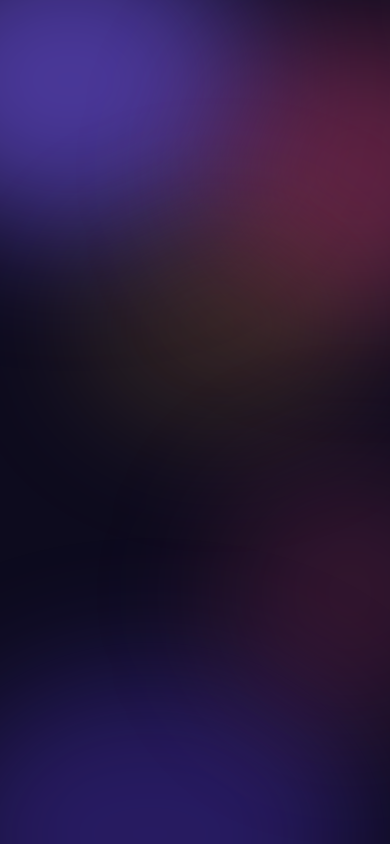
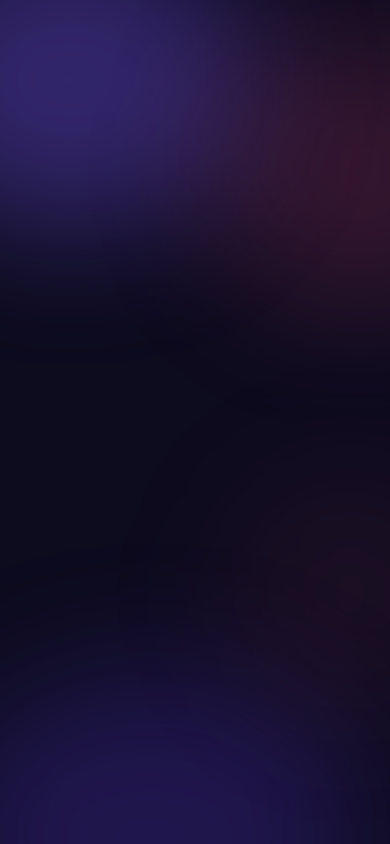
Düzeltmeler 1: koyu zemin, basılı kare, Keşfet ve mekan sayfası, metinler
- Koyu temada bulutlar sakin, turuncu bulut yok (scripts/art/groundDark.ts).
- Simge düğmesine basınca arkada kare dolgu çıkmıyor, düğme hafif içe çöker.
- Keşfet: başlık saate göre (Bu sabah, Bugün, Bu akşam), Şu an buradasın
  ince satır, liste başlığı sığmayınca alt satıra iner, haritada sokak
  adları başlığın içinden görünmez.
- Mekan sayfası: oturulan nokta işaretli, noktalar kartı doldurur, konum
  notu yalnızca check-in öncesinde.
- Metinler: Anonim adın tekrarı, arkadaş satırı tek satır, geçmişte kişi
  ile, Aktiviteler'in ilk sekmesi Etkinlikler.
- Elle eklenmiş ikinci Yedegör Dürüm listeden çıkar (migration).

Claude-Session: https://claude.ai/code/session_01Vo9HtBJCBDF53mt7AVG3wM

diff --git a/apps/mobile/src/i18n/tr.ts b/apps/mobile/src/i18n/tr.ts
@@ -352,8 +352,9 @@ export const tr = {
   activities: {
     // skall tuvali (AktivitelerGecmisKayit): "Sahtekar · bugün 19:30"; approved 27 Ekim.
     sheetLine: (game: string, when: string) => `${game} · ${when}`,
-    tabs: 'Aktiviteler ve geçmiş',
-    events: 'Aktiviteler',
+    tabs: 'Etkinlikler ve geçmiş',
+    // Not the page's own name again (the owner's call, 30 Ekim).
+    events: 'Etkinlikler',
     history: 'Geçmiş',
     fromVenues: (city: string) => `${inflectTr(city, 'locative')}ki mekanlardan`,
     eventKind: 'Etkinlik',
@@ -374,13 +375,14 @@ export const tr = {
           ? (WEEKDAYS_SHORT[new Date(iso).getDay()] ?? '')
           : dayMonth(iso),
     game: (concept: HistoryConcept) => HISTORY_CONCEPTS[concept],
-    withTable: (alias: string) => `${alias} masasıyla`,
+    // A person, not a table (the people's table, docs/SPEC_V4.md §4.E; the owner's report, 30 Ekim).
+    withTable: (alias: string) => `${alias} ile`,
     results: { won: 'Kazandın', lost: 'Kaybettin', done: 'Bitti' } satisfies Record<
       HistoryResult,
       string
     >,
     rowLabel: (game: string, alias: string, when: string, result: string | null) =>
-      [game, `${alias} masasıyla`, when, result].filter(Boolean).join(', '),
+      [game, `${alias} ile`, when, result].filter(Boolean).join(', '),
     tabu: {
       body: 'Masalar takım olur: anlatan masa kartı anlatır, diğer masa yasaklı kelimeleri dinler.',
       steps: [
@@ -447,6 +449,8 @@ export const tr = {
   explore: {
     // "Şu an buradasın" (v44: .vhere): the own check-in, kept on this phone only.
     here: 'Şu an buradasın',
+    // Under the reader's own spot on the venue page.
+    hereShort: 'Buradasın',
     hereAt: (spot: string | null) => (spot ? `${spot} · giriş yaptın` : 'Giriş yaptın'),
     backToVenue: 'Mekana dön',
     views: { list: 'Liste', map: 'Harita' },
@@ -500,8 +504,13 @@ export const tr = {
     checkInHint:
       'Mekanı sen seçtin; konumun yalnızca mekanda olduğunu doğrulamak için bir kez alınır.',
     checkInHere: 'Buraya giriş yap',
-    // Keşfet's question (docs/design/aura → Keşfet).
-    question: 'Bu akşam\nnerede oturuyorsun?',
+    // Keşfet's question (docs/design/aura → Keşfet), by the part of the day (lib/dayPart.ts; the
+    // owner's call, 30 Ekim).
+    question: {
+      morning: 'Bu sabah\nnerede oturuyorsun?',
+      day: 'Bugün\nnerede oturuyorsun?',
+      evening: 'Bu akşam\nnerede oturuyorsun?',
+    },
     eventTagShort: 'Etkinlik',
     cityDistrict: (city: string, district: string) => `${city} · ${district}`,
     spotCount: (n: number) => `${n} nokta`,
@@ -523,8 +532,10 @@ export const tr = {
     newRequests: (n: number) => `${n} yeni arkadaşlık isteği`,
     unread: 'Yeni mesaj',
     noMessagesYet: 'Henüz mesaj yok. İlk mesajı sen yaz.',
-    // Ablative: the locative suffix plus "n" (Eylül'den, Ocak'tan).
-    since: (iso: string) => `${dayMonthAt(iso)}n beri arkadaşsınız`,
+    // Ablative: the locative suffix plus "n" (Eylül'den, Ocak'tan). One line in the row (the
+    // owner's report, 30 Ekim: "arkadaşsınız" wrapped it to two); the whole sentence is read out.
+    since: (iso: string) => `${dayMonthAt(iso)}n beri`,
+    sinceLabel: (iso: string) => `${dayMonthAt(iso)}n beri arkadaşsınız`,
     incomingTitle: 'Gelen istekler',
     noIncoming: 'Yeni istek yok.',
     incoming: (playedAt: string, concept: HistoryConcept, alias: string) =>
@@ -655,8 +666,9 @@ export const tr = {
     leaveBack: 'Düzenlemeye dön',
     seenAs: 'olarak görünürsün',
     seenAsLead: 'Masada',
-    nickNote: 'Anonim adın. Yenilersen yeni bir ad alırsın; kapsülün aynı kalır.',
-    nickNoteWait: 'Anonim adın. 30 günde bir yenileyebilirsin; kapsülün aynı kalır.',
+    // Under the "Anonim adın" label: the label is not said again (the owner's report, 30 Ekim).
+    nickNote: 'Yenilersen yeni bir ad alırsın; kapsülün aynı kalır.',
+    nickNoteWait: '30 günde bir yenileyebilirsin; kapsülün aynı kalır.',
     nickRefresh: "Nick'i yenile",
     nickRenew: 'Yenile',
     nickWait: (days: number) => `${days} gün sonra yenileyebilirsin.`,

diff --git a/apps/mobile/app/(app)/(tabs)/explore/[venueId].tsx b/apps/mobile/app/(app)/(tabs)/explore/[venueId].tsx
@@ -162,22 +162,32 @@ export default function VenueDetailScreen() {
                 <T v="h3">{tr.checkin.spotTitle}</T>
                 <T v="fine">{tr.explore.spotCount(spots.length)}</T>
               </View>
-              <View className="flex-row flex-wrap" style={{ gap: SPOT_GAP }}>
-                {spots.map((spot) => (
-                  <View
-                    key={spot.id}
-                    style={{
-                      width: `${100 / SPOT_COLUMNS - 3}%`,
-                      alignItems: 'center',
-                      gap: SPACING[1.5],
-                    }}
-                  >
-                    <SpotTile source={spotPicture(spot.ref)} />
-                    <T v="fine" strong center>
-                      {spot.name}
-                    </T>
-                  </View>
-                ))}
+              <View className="flex-row" style={{ gap: SPOT_GAP }}>
+                {spots.map((spot) => {
+                  // The spot the reader sat at (the owner's report, 30 Ekim: nothing showed it).
+                  const mine = here && active.data?.spot_id === spot.id;
+                  return (
+                    <View
+                      key={spot.id}
+                      style={{
+                        // Two spots fill the card in two, three or more in thirds (the owner's
+                        // report: two sat at the left with the right third empty).
+                        flexBasis: 0,
+                        flexGrow: 1,
+                        maxWidth:
+                          spots.length >= SPOT_COLUMNS ? `${100 / SPOT_COLUMNS}%` : undefined,
+                        alignItems: 'center',
+                        gap: SPACING[1.5],
+                      }}
+                    >
+                      <SpotTile source={spotPicture(spot.ref)} mine={mine} />
+                      <T v="fine" strong center>
+                        {spot.name}
+                      </T>
+                      {mine ? <Tag tone="green" label={tr.explore.hereShort} /> : null}
+                    </View>
+                  );
+                })}
               </View>
             </Glass>
           ) : null}
@@ -197,7 +207,9 @@ export default function VenueDetailScreen() {
               </T>
             </Glass>
           ) : null}
-          <T v="fine">{tr.explore.checkInHint}</T>
+          {/* Before a check-in only: once here, the location was already checked (the owner's
+              report, 30 Ekim). */}
+          {here ? null : <T v="fine">{tr.explore.checkInHint}</T>}
           <View style={{ flexGrow: 1 }} />
           <Btn
             block
@@ -230,8 +242,9 @@ const SPOT_COLUMNS = 3;
 const SPOT_GAP = 10;
 const SPOT_TILE = 76;
 
-// A spot's picture filling its column (KesfetMekan: `.thumb`, 76 high).
-function SpotTile({ source }: { source: ImageSourcePropType | undefined }) {
+// A spot's picture filling its column (KesfetMekan: `.thumb`, 76 high); the reader's own spot in
+// a green ring.
+function SpotTile({ source, mine }: { source: ImageSourcePropType | undefined; mine: boolean }) {
   return (
     <View
       style={{
@@ -240,6 +253,8 @@ function SpotTile({ source }: { source: ImageSourcePropType | undefined }) {
         borderRadius: KIT.size.thumbRadius,
         overflow: 'hidden',
         boxShadow: KIT.thumbShadow,
+        borderWidth: mine ? KIT.size.avRing : 0,
+        borderColor: KIT.success,
       }}
     >
       {source ? (

diff --git a/apps/mobile/app/(app)/(tabs)/explore/index.tsx b/apps/mobile/app/(app)/(tabs)/explore/index.tsx
@@ -43,6 +43,7 @@ import { tr } from '@/i18n/tr';
 import { track } from '@/lib/analytics';
 import { haptic } from '@/lib/haptics';
 import { useNow } from '@/lib/useNow';
+import { dayPart } from '@/lib/dayPart';
 import { venueType, type VenueType } from '@/lib/venueType';
 import { AURA } from '@/theme/aura';
 import { KIT, KIT_TYPE } from '@/theme/auraKit';
@@ -146,7 +147,7 @@ export default function ExploreScreen() {
               style={{ paddingHorizontal: KIT.size.side, paddingTop: SPACING[2], gap: EXPLORE_GAP }}
             >
               <T v="display" style={KIT_TYPE.displaySm} accessibilityRole="header">
-                {tr.explore.question}
+                {tr.explore.question[dayPart(now)]}
               </T>
               {ready && layout === 'list' ? (
                 <>
@@ -232,11 +233,22 @@ export default function ExploreScreen() {
 // "Şu an buradasın" (v46 `.vhere`): the own check-in and the way back to Mekan. The phone's own
 // data; nobody else sees it.
 function HereNow({ here }: { here: Here }) {
-  // docs/design/aura: a glass card with the live dot, the venue and "Mekana dön" under it (a long
-  // venue name keeps its width; beside the button it broke into four lines).
+  // A thin row (the owner's report, 30 Ekim: the card stood tall with its right side empty): the
+  // live dot, the venue and the spot on the left, "Mekana dön" on the right. A long venue name
+  // wraps under itself rather than squeezing the button.
   return (
-    <Glass sm testID="explore-here" style={{ padding: KIT.size.pad, gap: KIT.size.rowGap }}>
-      <View style={{ gap: SPACING[0.5] }}>
+    <Glass
+      sm
+      testID="explore-here"
+      style={{
+        flexDirection: 'row',
+        alignItems: 'center',
+        paddingVertical: KIT.size.liPadY,
+        paddingHorizontal: KIT.size.liPadX,
+        gap: KIT.size.liGap,
+      }}
+    >
+      <View style={{ flex: 1, minWidth: 0, gap: SPACING[0.5] }}>
         <Live label={tr.explore.here} />
         <T v="h3">{here.name}</T>
         <T v="fine">{tr.explore.hereAt(here.spot)}</T>
@@ -294,8 +306,13 @@ function VenueList({
       <View
         style={{
           flexDirection: 'row',
+          flexWrap: 'wrap',
           alignItems: 'baseline',
           justifyContent: 'space-between',
+          // Side by side while both fit; the count goes under the place on a narrow screen (the
+          // owner's report, 30 Ekim: the two ran into each other).
+          columnGap: KIT.size.rowGap,
+          rowGap: SPACING[0.5],
           paddingTop: KIT.size.secPadTop,
           paddingHorizontal: KIT.size.secPadX,
         }}
@@ -502,7 +519,7 @@ function SingleVenue({
         </Glass>
       </View>
       <T v="display" style={KIT_TYPE.displaySm} accessibilityRole="header">
-        {tr.explore.question}
+        {tr.explore.question[dayPart(now)]}
       </T>
       {here ? <HereNow here={here} /> : null}
       <Glass style={{ padding: CARD_PAD }} testID="explore-venue-card">
@@ -644,8 +661,9 @@ function SingleVenue({
 }
 
 const EXPLORE_GAP = 14;
-// Over the map: the head's top part on the plain ground, the rest a fade.
-const MAP_SOLID = 0.35;
+// Over the map: the question and the search row on the plain ground, the fade only round the
+// chips (the owner's report, 30 Ekim: street names showed through the question).
+const MAP_SOLID = 0.74;
 const CARD_PAD = 8;
 const SCENE_RADIUS = 22;
 

diff --git a/scripts/art/groundDark.ts b/scripts/art/groundDark.ts
@@ -1,0 +1,37 @@
+// The dark theme's cloud ground (apps/mobile/assets/aura/ground-dark.webp), drawn by Chromium from
+// docs/design/aura's clouds with the night's own strengths, quieter (the owner's report, 30 Ekim:
+// the clouds stood out too much in the dark, the amber one a brown smear in the middle). The light
+// ground stays as the canvas draws it. Run:
+//   PLAYWRIGHT_CHROMIUM=<chromium> node --experimental-strip-types scripts/art/groundDark.ts
+import { chromium } from 'playwright';
+import sharp from 'sharp';
+
+const OUT = 'apps/mobile/assets/aura/ground-dark.webp';
+// The canvas's phone (390 × 844) and its five clouds (aura.css `.a1` … `.a5`).
+const W = 390;
+const H = 844;
+// Night, quieter: purple top left and bottom, a soft pink top right; no amber (it reads as brown
+// on the dark ground), the bottom-right pink faint.
+const CLOUDS = [
+  'width:360px;height:300px;left:-110px;top:-70px;background:rgba(123,92,255,0.34)',
+  'width:300px;height:280px;right:-120px;top:30px;background:rgba(255,79,139,0.16)',
+  'width:420px;height:320px;left:-60px;bottom:-150px;background:rgba(90,58,230,0.24)',
+  'width:260px;height:260px;right:-90px;bottom:120px;background:rgba(255,79,139,0.06)',
+];
+const GROUND = '#0D0B1E';
+
+const html = `<!doctype html><html><body style="margin:0">
+<div style="position:relative;width:${W}px;height:${H}px;overflow:hidden;background:${GROUND}">
+${CLOUDS.map((c) => `<i style="position:absolute;border-radius:50%;filter:blur(64px);${c}"></i>`).join('')}
+</div></body></html>`;
+
+const browser = await chromium.launch(
+  process.env.PLAYWRIGHT_CHROMIUM ? { executablePath: process.env.PLAYWRIGHT_CHROMIUM } : {},
+);
+const page = await browser.newPage({ viewport: { width: W, height: H }, deviceScaleFactor: 1 });
+await page.setContent(html);
+const png = await page.screenshot();
+await browser.close();
+// Lossless, as the light picture (a blurred picture compresses well).
+await sharp(png).webp({ lossless: true, effort: 6 }).toFile(OUT);
+console.log('wrote', OUT);

diff --git a/apps/mobile/src/lib/dayPart.test.ts b/apps/mobile/src/lib/dayPart.test.ts
@@ -1,0 +1,26 @@
+import { describe, expect, it } from 'vitest';
+
+import { dayPart } from './dayPart';
+
+// Istanbul time is UTC+3.
+const at = (hhmm: string) => Date.parse(`2026-10-30T${hhmm}:00+03:00`);
+
+describe('dayPart', () => {
+  it('is the morning from 05:00 to 12:00', () => {
+    expect(dayPart(at('05:00'))).toBe('morning');
+    expect(dayPart(at('10:20'))).toBe('morning');
+    expect(dayPart(at('11:59'))).toBe('morning');
+  });
+
+  it('is the day from 12:00 to 17:00', () => {
+    expect(dayPart(at('12:00'))).toBe('day');
+    expect(dayPart(at('16:59'))).toBe('day');
+  });
+
+  it('is the evening from 17:00, through the night, to 05:00', () => {
+    expect(dayPart(at('17:00'))).toBe('evening');
+    expect(dayPart(at('23:30'))).toBe('evening');
+    expect(dayPart(at('02:00'))).toBe('evening');
+    expect(dayPart(at('04:59'))).toBe('evening');
+  });
+});

diff --git a/apps/mobile/src/components/IconButton.tsx b/apps/mobile/src/components/IconButton.tsx
@@ -89,8 +89,11 @@ export function IconButton({
                     borderColor: KIT[scheme].raisedEdge,
                     boxShadow: shadow?.boxShadow,
                   }
-                : { backgroundColor: pressed ? colors.surface2 : 'transparent' },
-            round ? pressScale(pressed && !disabled) : null,
+                : null,
+            // A bare icon sinks when pressed, as a round one does (no fill: a fill from an earlier
+            // look showed as a box behind the chat's "more" in the dark, the owner's report, 30
+            // Ekim).
+            pressScale(pressed && !disabled),
           ]}
         >
           {shadow?.node}

diff --git a/apps/mobile/src/lib/dayPart.ts b/apps/mobile/src/lib/dayPart.ts
@@ -1,0 +1,13 @@
+// The part of the day in Istanbul (UTC+3 all year since 2016), for Keşfet's question (the owner's
+// call, 30 Ekim: "Bu akşam" showed in the morning too): 05:00 to 12:00 morning, 12:00 to 17:00 the
+// day, 17:00 to 05:00 the evening (the night counts as the evening).
+export type DayPart = 'morning' | 'day' | 'evening';
+
+const ISTANBUL_OFFSET_HOURS = 3;
+
+export function dayPart(now: number): DayPart {
+  const hour = (new Date(now).getUTCHours() + ISTANBUL_OFFSET_HOURS) % 24;
+  if (hour >= 5 && hour < 12) return 'morning';
+  if (hour >= 12 && hour < 17) return 'day';
+  return 'evening';
+}

diff --git a/apps/mobile/app/(app)/(tabs)/profile/friends.tsx b/apps/mobile/app/(app)/(tabs)/profile/friends.tsx
@@ -86,7 +86,7 @@ function FriendRow({ friend: f }: { friend: Friend }) {
   return (
     <Li
       testID={`friend-${name}`}
-      accessibilityLabel={`${name}, ${tr.friends.since(f.since)}`}
+      accessibilityLabel={`${name}, ${tr.friends.sinceLabel(f.since)}`}
       onPress={() =>
         router.push({ pathname: '/people/[publicId]', params: { publicId: f.publicId } })
       }
